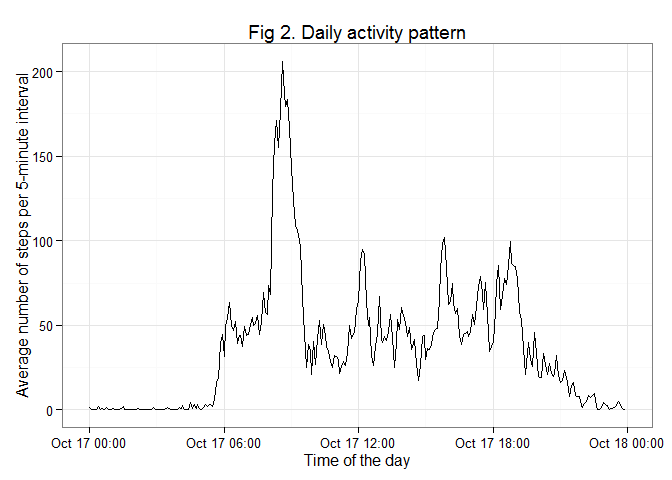
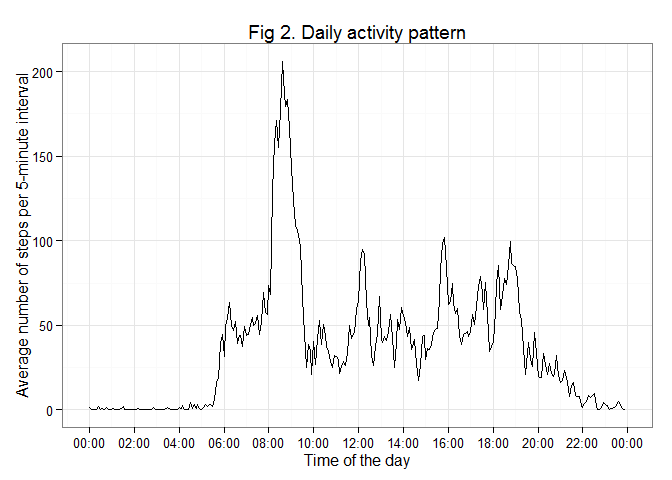
Format of x-axis on activiy plot is changed. Conslusions are not accurate and needs in improvement.

Changed region(s): [[0.0625, 0.9062, 1.0, 0.9375]]

diff --git a/PA1_template.html b/PA1_template.html
@@ -59,6 +59,7 @@ if (window.hljs && document.readyState && document.readyState === "complete") {
 <h2>Loading and preprocessing the data</h2>
 <pre class="r"><code>suppressMessages(library(dplyr))
 library(ggplot2)
+library(scales)
 
 # Set locale for correct (US) weekdays abbreviation
 invisible(Sys.setlocale(&quot;LC_TIME&quot;, &quot;us&quot;))
@@ -132,8 +133,10 @@ qplot(strptime(time,&quot;%H:%M&quot;),steps,
       data = aggregated_activity_by_interval,
       main=&quot;Fig 2. Daily activity pattern&quot;,
       xlab = &quot;Time of the day&quot;,
-      ylab = &quot;Average number of steps per 5-minute interval&quot;) + theme_bw()</code></pre>
[1 lines of base64/hex data omitted]
+      ylab = &quot;Average number of steps per 5-minute interval&quot;) + 
+    scale_x_datetime(labels = date_format(&quot;%H:00&quot;),breaks = date_breaks(&quot;2 hour&quot;))+ 
+    theme_bw()</code></pre>
[1 lines of base64/hex data omitted]
 <p>So we may conclude that average maximum activity is at 08:35 with 206 average number of steps per interval.</p>
 </div>
 <div id="imputing-missing-values" class="section level2">
@@ -216,8 +219,11 @@ qplot(strptime(time,&quot;%H:%M&quot;),steps,
       data = aggregated_activity_by_interval_nona,
       main=&quot;Fig 4. Daily activity pattern&quot;,
       xlab = &quot;Time of the day&quot;,
-      ylab = &quot;Average number of steps per 5-minute interval&quot;) + theme_minimal()</code></pre>
[1 lines of base64/hex data omitted]
+      ylab = &quot;Average number of steps per 5-minute interval&quot;)  + 
+    scale_x_datetime(labels = date_format(&quot;%H:00&quot;),breaks = date_breaks(&quot;2 hour&quot;)) +
+    theme_bw()</code></pre>
[1 lines of base64/hex data omitted]
+<p>So we can make a conclusion that pattern beetween weekdays and weekends are similar. But on weekdays activity is higher - number of steps are greater than on weekends.</p>
 <div id="thats-all.-thank-you-for-your-attention" class="section level3">
 <h3>That’s all. Thank you for your attention:)</h3>
 </div>

diff --git a/PA1_template.md b/PA1_template.md
@@ -6,6 +6,7 @@
 ```r
 suppressMessages(library(dplyr))
 library(ggplot2)
+library(scales)
 
 # Set locale for correct (US) weekdays abbreviation
 invisible(Sys.setlocale("LC_TIME", "us"))
@@ -75,7 +76,9 @@ qplot(strptime(time,"%H:%M"),steps,
       data = aggregated_activity_by_interval,
       main="Fig 2. Daily activity pattern",
       xlab = "Time of the day",
-      ylab = "Average number of steps per 5-minute interval") + theme_bw()
+      ylab = "Average number of steps per 5-minute interval") + 
+    scale_x_datetime(labels = date_format("%H:00"),breaks = date_breaks("2 hour"))+ 
+    theme_bw()
 ```
 
 ![plot of chunk unnamed-chunk-3](./PA1_template_files/figure-html/unnamed-chunk-3.png) 
@@ -175,10 +178,13 @@ qplot(strptime(time,"%H:%M"),steps,
       data = aggregated_activity_by_interval_nona,
       main="Fig 4. Daily activity pattern",
       xlab = "Time of the day",
-      ylab = "Average number of steps per 5-minute interval") + theme_minimal()
+      ylab = "Average number of steps per 5-minute interval")  + 
+    scale_x_datetime(labels = date_format("%H:00"),breaks = date_breaks("2 hour")) +
+    theme_bw()
 ```
 
 ![plot of chunk unnamed-chunk-7](./PA1_template_files/figure-html/unnamed-chunk-7.png) 
+
 So we can make a conclusion that pattern beetween weekdays and weekends are similar. But on weekdays activity is higher - number of steps are greater than on weekends.
 
 ### That's all. Thank you for your attention:)
